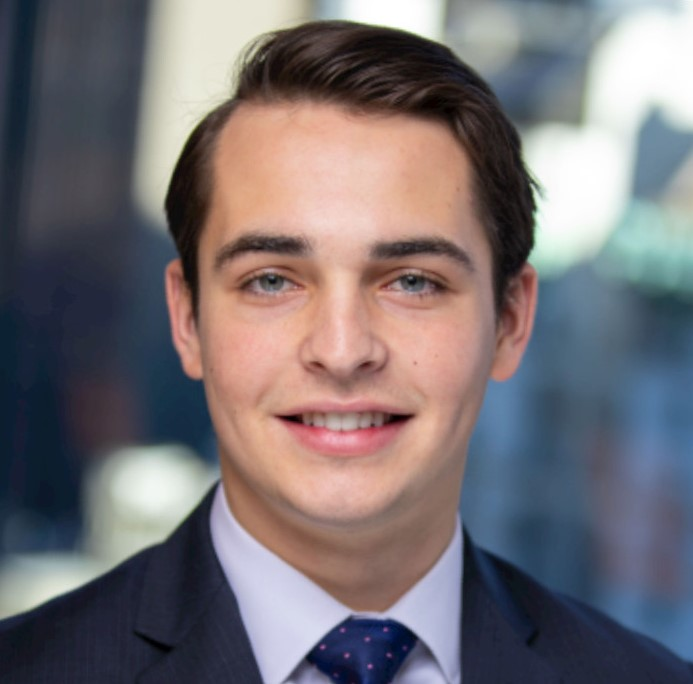
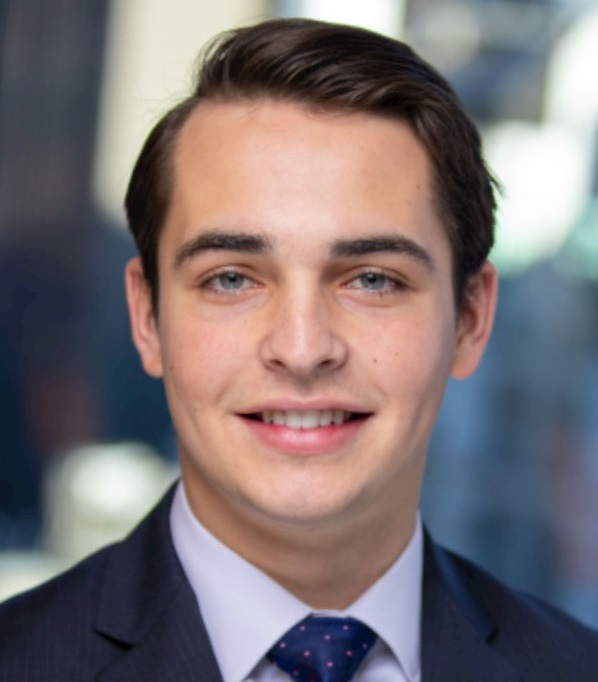
Image crop and customer testimonials

diff --git a/public/css/custom.css b/public/css/custom.css
@@ -169,6 +169,29 @@
     margin: 0 auto 0 0;
 }
 
+.u-section-2 .u-icon-2 {
+    height: 33px;
+    width: 33px;
+    margin: 0 auto 0 0;
+}
+
+.u-section-2 .u-icon-3 {
+    height: 33px;
+    width: 33px;
+    margin: 0 auto 0 0;
+}
+
+.u-section-2 .u-icon-4 {
+    height: 33px;
+    width: 33px;
+    margin: 0 auto 0 0;
+}
+
+.u-svg-content {
+    width: 0;
+    height: 0;
+}
+
 .u-icon-circle, .u-icon-circle img {
     border-radius: 50%;
 }
@@ -188,29 +211,29 @@
     margin: 13px 0 0;
 }
 
-p:not(.u-text-variant) {
+/* p:not(.u-text-variant) {
     margin-top: 20px;
     margin-bottom: 20px;
-}
+} */
 
 .u-text {
     word-wrap: break-word;
     position: relative;
 }
 
-p {
+/* p {
     margin-top: 0;
     padding: 0;
     margin-bottom: 0.5rem;
-}
+} */
 
-p {
+/* p {
     display: block;
     margin-block-start: 1em;
     margin-block-end: 1em;
     margin-inline-start: 0px;
     margin-inline-end: 0px;
-}
+} */
 
 .u-section-2 .u-image-1 {
     width: 50px;
@@ -275,4 +298,81 @@ h5 {
 
 .u-custom-font.u-text-font {
     font-family: 'Open Sans',sans-serif !important;
+}
+
+
+/* ========================================================================== */
+
+.text-white {
+    color: white;
+}
+
+.text-align-center{
+    text-align: center;
+}
+
+.back-white {
+    background-color: white;
+}
+
+.p-30 {
+    padding: 30px;
+}
+
+.border-radius-25 {
+    border-radius: 25px;
+}
+
+.my-10 {
+   margin-top: 20px;
+   margin-bottom: 20px;
+   margin-right: 20px;
+   margin-left: 20px;
+}
+
+.w-1-3 {
+    width: 30%;
+    /* min-width: 30%; */
+}
+
+@media (max-width: 992px)
+{
+    .w-50-p-md {
+        width: 45%;
+    }
+}
+
+@media (max-width: 576px)
+{
+    .w-100-p-sm {
+        width: 100%;
+    }
+}
+
+.u-svg-link {
+    fill: rgb(32, 30, 156) !important;
+    width: 35px;
+    height: 35px;
+}
+
+.comment-text {
+    color: #111111;
+    margin: 13px 0 0;
+    font-style: italic;
+    font-style: italic;
+    font-family: 'Open Sans',sans-serif;
+    font-size: 17px;
+}
+
+.customer-name {
+    font-weight: 700;
+    font-size: 1.25rem;
+    color: #111111;
+    margin-top: 20px;
+}
+
+.customer-job {
+    font-weight: 300;
+    font-size: 1rem;
+    color: #111111;
 }

diff --git a/resources/views/landing.blade.php b/resources/views/landing.blade.php
@@ -747,7 +747,57 @@ Home
             </div>
         </section>
         <!--  Customer Testimonials Section -->
-        <section class="u-align-center u-clearfix u-palette-1-base u-section-2" id="sec-5bac">
+        <section class="c--text-inverse py700 section" style="padding: 100px 0px; height: 100%; background-color: #201e9c; color: white;">
+            <h2 class="text-white text-align-center">Read what our customers say</h2>
+
+            <div class="flex-wrap row h-100p">
+                <div class="col w-1-3 w-100-p-sm w-50-p-md back-white my-10 border-radius-25 p-30">
+                    <span class="u-align-left u-icon u-icon-circle u-icon-1"><svg class="u-svg-link" preserveAspectRatio="xMidYMin slice" viewBox="0 0 95.333 95.332" style=""><use xlink:href="#svg-a13b"></use></svg><svg class="u-svg-content" viewBox="0 0 95.333 95.332" x="0px" y="0px" id="svg-a13b" style="enable-background:new 0 0 95.333 95.332;"><g><g><path d="M30.512,43.939c-2.348-0.676-4.696-1.019-6.98-1.019c-3.527,0-6.47,0.806-8.752,1.793    c2.2-8.054,7.485-21.951,18.013-23.516c0.975-0.145,1.774-0.85,2.04-1.799l2.301-8.23c0.194-0.696,0.079-1.441-0.318-2.045    s-1.035-1.007-1.75-1.105c-0.777-0.106-1.569-0.16-2.354-0.16c-12.637,0-25.152,13.19-30.433,32.076    c-3.1,11.08-4.009,27.738,3.627,38.223c4.273,5.867,10.507,9,18.529,9.313c0.033,0.001,0.065,0.002,0.098,0.002    c9.898,0,18.675-6.666,21.345-16.209c1.595-5.705,0.874-11.688-2.032-16.851C40.971,49.307,36.236,45.586,30.512,43.939z"></path><path d="M92.471,54.413c-2.875-5.106-7.61-8.827-13.334-10.474c-2.348-0.676-4.696-1.019-6.979-1.019    c-3.527,0-6.471,0.806-8.753,1.793c2.2-8.054,7.485-21.951,18.014-23.516c0.975-0.145,1.773-0.85,2.04-1.799l2.301-8.23    c0.194-0.696,0.079-1.441-0.318-2.045c-0.396-0.604-1.034-1.007-1.75-1.105c-0.776-0.106-1.568-0.16-2.354-0.16    c-12.637,0-25.152,13.19-30.434,32.076c-3.099,11.08-4.008,27.738,3.629,38.225c4.272,5.866,10.507,9,18.528,9.312    c0.033,0.001,0.065,0.002,0.099,0.002c9.897,0,18.675-6.666,21.345-16.209C96.098,65.559,95.376,59.575,92.471,54.413z"></path></g></g></svg></span>
+
+                    <p class="comment-text">Proin sed libero enim sed faucibus turpis. At imperdiet dui accumsan sit amet nulla facilisi morbi tempus. Ut sem nulla pharetra diam sit amet nisl. Enim nunc</p>
+                    <p class="customer-name">Celia Almeda</p>
+                    <p class="customer-job">CEO Company</p>
+                </div>
+                <div class="col w-1-3 w-100-p-sm w-50-p-md back-white my-10 border-radius-25 p-30">
+                    <span class="u-align-left u-icon u-icon-circle u-icon-1"><svg class="u-svg-link" preserveAspectRatio="xMidYMin slice" viewBox="0 0 95.333 95.332" style=""><use xlink:href="#svg-a13b"></use></svg><svg class="u-svg-content" viewBox="0 0 95.333 95.332" x="0px" y="0px" id="svg-a13b" style="enable-background:new 0 0 95.333 95.332;"><g><g><path d="M30.512,43.939c-2.348-0.676-4.696-1.019-6.98-1.019c-3.527,0-6.47,0.806-8.752,1.793    c2.2-8.054,7.485-21.951,18.013-23.516c0.975-0.145,1.774-0.85,2.04-1.799l2.301-8.23c0.194-0.696,0.079-1.441-0.318-2.045    s-1.035-1.007-1.75-1.105c-0.777-0.106-1.569-0.16-2.354-0.16c-12.637,0-25.152,13.19-30.433,32.076    c-3.1,11.08-4.009,27.738,3.627,38.223c4.273,5.867,10.507,9,18.529,9.313c0.033,0.001,0.065,0.002,0.098,0.002    c9.898,0,18.675-6.666,21.345-16.209c1.595-5.705,0.874-11.688-2.032-16.851C40.971,49.307,36.236,45.586,30.512,43.939z"></path><path d="M92.471,54.413c-2.875-5.106-7.61-8.827-13.334-10.474c-2.348-0.676-4.696-1.019-6.979-1.019    c-3.527,0-6.471,0.806-8.753,1.793c2.2-8.054,7.485-21.951,18.014-23.516c0.975-0.145,1.773-0.85,2.04-1.799l2.301-8.23    c0.194-0.696,0.079-1.441-0.318-2.045c-0.396-0.604-1.034-1.007-1.75-1.105c-0.776-0.106-1.568-0.16-2.354-0.16    c-12.637,0-25.152,13.19-30.434,32.076c-3.099,11.08-4.008,27.738,3.629,38.225c4.272,5.866,10.507,9,18.528,9.312    c0.033,0.001,0.065,0.002,0.099,0.002c9.897,0,18.675-6.666,21.345-16.209C96.098,65.559,95.376,59.575,92.471,54.413z"></path></g></g></svg></span>
+
+                    <p class="comment-text">Proin sed libero enim sed faucibus turpis. At imperdiet dui accumsan sit amet nulla facilisi morbi tempus. Ut sem nulla pharetra diam sit amet nisl. Enim nunc</p>
+                    <p class="customer-name">Celia Almeda</p>
+                    <p class="customer-job">CEO Company</p>
+                </div>
+                <div class="col w-1-3 w-100-p-sm w-50-p-md back-white my-10 border-radius-25 p-30">
+                    <span class="u-align-left u-icon u-icon-circle u-icon-1"><svg class="u-svg-link" preserveAspectRatio="xMidYMin slice" viewBox="0 0 95.333 95.332" style=""><use xlink:href="#svg-a13b"></use></svg><svg class="u-svg-content" viewBox="0 0 95.333 95.332" x="0px" y="0px" id="svg-a13b" style="enable-background:new 0 0 95.333 95.332;"><g><g><path d="M30.512,43.939c-2.348-0.676-4.696-1.019-6.98-1.019c-3.527,0-6.47,0.806-8.752,1.793    c2.2-8.054,7.485-21.951,18.013-23.516c0.975-0.145,1.774-0.85,2.04-1.799l2.301-8.23c0.194-0.696,0.079-1.441-0.318-2.045    s-1.035-1.007-1.75-1.105c-0.777-0.106-1.569-0.16-2.354-0.16c-12.637,0-25.152,13.19-30.433,32.076    c-3.1,11.08-4.009,27.738,3.627,38.223c4.273,5.867,10.507,9,18.529,9.313c0.033,0.001,0.065,0.002,0.098,0.002    c9.898,0,18.675-6.666,21.345-16.209c1.595-5.705,0.874-11.688-2.032-16.851C40.971,49.307,36.236,45.586,30.512,43.939z"></path><path d="M92.471,54.413c-2.875-5.106-7.61-8.827-13.334-10.474c-2.348-0.676-4.696-1.019-6.979-1.019    c-3.527,0-6.471,0.806-8.753,1.793c2.2-8.054,7.485-21.951,18.014-23.516c0.975-0.145,1.773-0.85,2.04-1.799l2.301-8.23    c0.194-0.696,0.079-1.441-0.318-2.045c-0.396-0.604-1.034-1.007-1.75-1.105c-0.776-0.106-1.568-0.16-2.354-0.16    c-12.637,0-25.152,13.19-30.434,32.076c-3.099,11.08-4.008,27.738,3.629,38.225c4.272,5.866,10.507,9,18.528,9.312    c0.033,0.001,0.065,0.002,0.099,0.002c9.897,0,18.675-6.666,21.345-16.209C96.098,65.559,95.376,59.575,92.471,54.413z"></path></g></g></svg></span>
+
+                    <p class="comment-text">Proin sed libero enim sed faucibus turpis. At imperdiet dui accumsan sit amet nulla facilisi morbi tempus. Ut sem nulla pharetra diam sit amet nisl. Enim nunc</p>
+                    <p class="customer-name">Celia Almeda</p>
+                    <p class="customer-job">CEO Company</p>
+                </div>
+                <div class="col w-1-3 w-100-p-sm w-50-p-md back-white my-10 border-radius-25 p-30">
+                    <span class="u-align-left u-icon u-icon-circle u-icon-1"><svg class="u-svg-link" preserveAspectRatio="xMidYMin slice" viewBox="0 0 95.333 95.332" style=""><use xlink:href="#svg-a13b"></use></svg><svg class="u-svg-content" viewBox="0 0 95.333 95.332" x="0px" y="0px" id="svg-a13b" style="enable-background:new 0 0 95.333 95.332;"><g><g><path d="M30.512,43.939c-2.348-0.676-4.696-1.019-6.98-1.019c-3.527,0-6.47,0.806-8.752,1.793    c2.2-8.054,7.485-21.951,18.013-23.516c0.975-0.145,1.774-0.85,2.04-1.799l2.301-8.23c0.194-0.696,0.079-1.441-0.318-2.045    s-1.035-1.007-1.75-1.105c-0.777-0.106-1.569-0.16-2.354-0.16c-12.637,0-25.152,13.19-30.433,32.076    c-3.1,11.08-4.009,27.738,3.627,38.223c4.273,5.867,10.507,9,18.529,9.313c0.033,0.001,0.065,0.002,0.098,0.002    c9.898,0,18.675-6.666,21.345-16.209c1.595-5.705,0.874-11.688-2.032-16.851C40.971,49.307,36.236,45.586,30.512,43.939z"></path><path d="M92.471,54.413c-2.875-5.106-7.61-8.827-13.334-10.474c-2.348-0.676-4.696-1.019-6.979-1.019    c-3.527,0-6.471,0.806-8.753,1.793c2.2-8.054,7.485-21.951,18.014-23.516c0.975-0.145,1.773-0.85,2.04-1.799l2.301-8.23    c0.194-0.696,0.079-1.441-0.318-2.045c-0.396-0.604-1.034-1.007-1.75-1.105c-0.776-0.106-1.568-0.16-2.354-0.16    c-12.637,0-25.152,13.19-30.434,32.076c-3.099,11.08-4.008,27.738,3.629,38.225c4.272,5.866,10.507,9,18.528,9.312    c0.033,0.001,0.065,0.002,0.099,0.002c9.897,0,18.675-6.666,21.345-16.209C96.098,65.559,95.376,59.575,92.471,54.413z"></path></g></g></svg></span>
+
+                    <p class="comment-text">Proin sed libero enim sed faucibus turpis. At imperdiet dui accumsan sit amet nulla facilisi morbi tempus. Ut sem nulla pharetra diam sit amet nisl. Enim nunc</p>
+                    <p class="customer-name">Celia Almeda</p>
+                    <p class="customer-job">CEO Company</p>
+                </div>
+                <div class="col w-1-3 w-100-p-sm w-50-p-md back-white my-10 border-radius-25 p-30">
+                    <span class="u-align-left u-icon u-icon-circle u-icon-1"><svg class="u-svg-link" preserveAspectRatio="xMidYMin slice" viewBox="0 0 95.333 95.332" style=""><use xlink:href="#svg-a13b"></use></svg><svg class="u-svg-content" viewBox="0 0 95.333 95.332" x="0px" y="0px" id="svg-a13b" style="enable-background:new 0 0 95.333 95.332;"><g><g><path d="M30.512,43.939c-2.348-0.676-4.696-1.019-6.98-1.019c-3.527,0-6.47,0.806-8.752,1.793    c2.2-8.054,7.485-21.951,18.013-23.516c0.975-0.145,1.774-0.85,2.04-1.799l2.301-8.23c0.194-0.696,0.079-1.441-0.318-2.045    s-1.035-1.007-1.75-1.105c-0.777-0.106-1.569-0.16-2.354-0.16c-12.637,0-25.152,13.19-30.433,32.076    c-3.1,11.08-4.009,27.738,3.627,38.223c4.273,5.867,10.507,9,18.529,9.313c0.033,0.001,0.065,0.002,0.098,0.002    c9.898,0,18.675-6.666,21.345-16.209c1.595-5.705,0.874-11.688-2.032-16.851C40.971,49.307,36.236,45.586,30.512,43.939z"></path><path d="M92.471,54.413c-2.875-5.106-7.61-8.827-13.334-10.474c-2.348-0.676-4.696-1.019-6.979-1.019    c-3.527,0-6.471,0.806-8.753,1.793c2.2-8.054,7.485-21.951,18.014-23.516c0.975-0.145,1.773-0.85,2.04-1.799l2.301-8.23    c0.194-0.696,0.079-1.441-0.318-2.045c-0.396-0.604-1.034-1.007-1.75-1.105c-0.776-0.106-1.568-0.16-2.354-0.16    c-12.637,0-25.152,13.19-30.434,32.076c-3.099,11.08-4.008,27.738,3.629,38.225c4.272,5.866,10.507,9,18.528,9.312    c0.033,0.001,0.065,0.002,0.099,0.002c9.897,0,18.675-6.666,21.345-16.209C96.098,65.559,95.376,59.575,92.471,54.413z"></path></g></g></svg></span>
+
+                    <p class="comment-text">Proin sed libero enim sed faucibus turpis. At imperdiet dui accumsan sit amet nulla facilisi morbi tempus. Ut sem nulla pharetra diam sit amet nisl. Enim nunc</p>
+                    <p class="customer-name">Celia Almeda</p>
+                    <p class="customer-job">CEO Company</p>
+                </div>
+                <div class="col w-1-3 w-100-p-sm w-50-p-md back-white my-10 border-radius-25 p-30">
+                    <span class="u-align-left u-icon u-icon-circle u-icon-1"><svg class="u-svg-link" preserveAspectRatio="xMidYMin slice" viewBox="0 0 95.333 95.332" style=""><use xlink:href="#svg-a13b"></use></svg><svg class="u-svg-content" viewBox="0 0 95.333 95.332" x="0px" y="0px" id="svg-a13b" style="enable-background:new 0 0 95.333 95.332;"><g><g><path d="M30.512,43.939c-2.348-0.676-4.696-1.019-6.98-1.019c-3.527,0-6.47,0.806-8.752,1.793    c2.2-8.054,7.485-21.951,18.013-23.516c0.975-0.145,1.774-0.85,2.04-1.799l2.301-8.23c0.194-0.696,0.079-1.441-0.318-2.045    s-1.035-1.007-1.75-1.105c-0.777-0.106-1.569-0.16-2.354-0.16c-12.637,0-25.152,13.19-30.433,32.076    c-3.1,11.08-4.009,27.738,3.627,38.223c4.273,5.867,10.507,9,18.529,9.313c0.033,0.001,0.065,0.002,0.098,0.002    c9.898,0,18.675-6.666,21.345-16.209c1.595-5.705,0.874-11.688-2.032-16.851C40.971,49.307,36.236,45.586,30.512,43.939z"></path><path d="M92.471,54.413c-2.875-5.106-7.61-8.827-13.334-10.474c-2.348-0.676-4.696-1.019-6.979-1.019    c-3.527,0-6.471,0.806-8.753,1.793c2.2-8.054,7.485-21.951,18.014-23.516c0.975-0.145,1.773-0.85,2.04-1.799l2.301-8.23    c0.194-0.696,0.079-1.441-0.318-2.045c-0.396-0.604-1.034-1.007-1.75-1.105c-0.776-0.106-1.568-0.16-2.354-0.16    c-12.637,0-25.152,13.19-30.434,32.076c-3.099,11.08-4.008,27.738,3.629,38.225c4.272,5.866,10.507,9,18.528,9.312    c0.033,0.001,0.065,0.002,0.099,0.002c9.897,0,18.675-6.666,21.345-16.209C96.098,65.559,95.376,59.575,92.471,54.413z"></path></g></g></svg></span>
+
+                    <p class="comment-text">Proin sed libero enim sed faucibus turpis. At imperdiet dui accumsan sit amet nulla facilisi morbi tempus. Ut sem nulla pharetra diam sit amet nisl. Enim nunc</p>
+                    <p class="customer-name">Celia Almeda</p>
+                    <p class="customer-job">CEO Company</p>
+                </div>
+            </div>
+        </section>
+
+        <!-- <section class="u-align-center u-clearfix u-palette-1-base u-section-2" id="sec-5bac">
+
             <div class="u-clearfix u-sheet u-valign-middle u-sheet-1">
                 <h2 class="u-custom-font u-text u-text-1">Read what our customers say</h2>
                 <div class="u-layout-grid u-list u-list-1">
@@ -790,13 +840,14 @@ Home
                         </div>
                     </div>
                 </div>
-                <p class="u-text u-text-14">Images from <a href="https://www.freepik.com/photos/people" class="u-border-1 u-border-white u-btn u-btn-rectangle u-button-link u-button-style u-none u-text-body-alt-color u-btn-1" target="_blank">Freepik</a>
-                </p>
             </div>
-        </section>
+        </section> -->
         <!-- ------------------------------------------------ -->
-        
-        <section class="py0 section"  id="blog_section">
+                    
+        <section class="py700 section" id="blog_section" style="padding-top:20px;">
+        </section>
+
+        <section class="py0 section">
             <div class="bg--blue-1100 c--text-inverse mw900 mx-auto py650-l py700 relative">
                 <div class="mw-83p-ns mx-auto px350-ns px450 py300-l py650-m w-100p">
                     <h2 class="c--text-inverse f700-m f800 f800-l ff-recoleta pr-16p-offset-l" style="padding-right: 0px ; font-size: 33px;">How to build a solar project finance model using PVDATA </h2>
